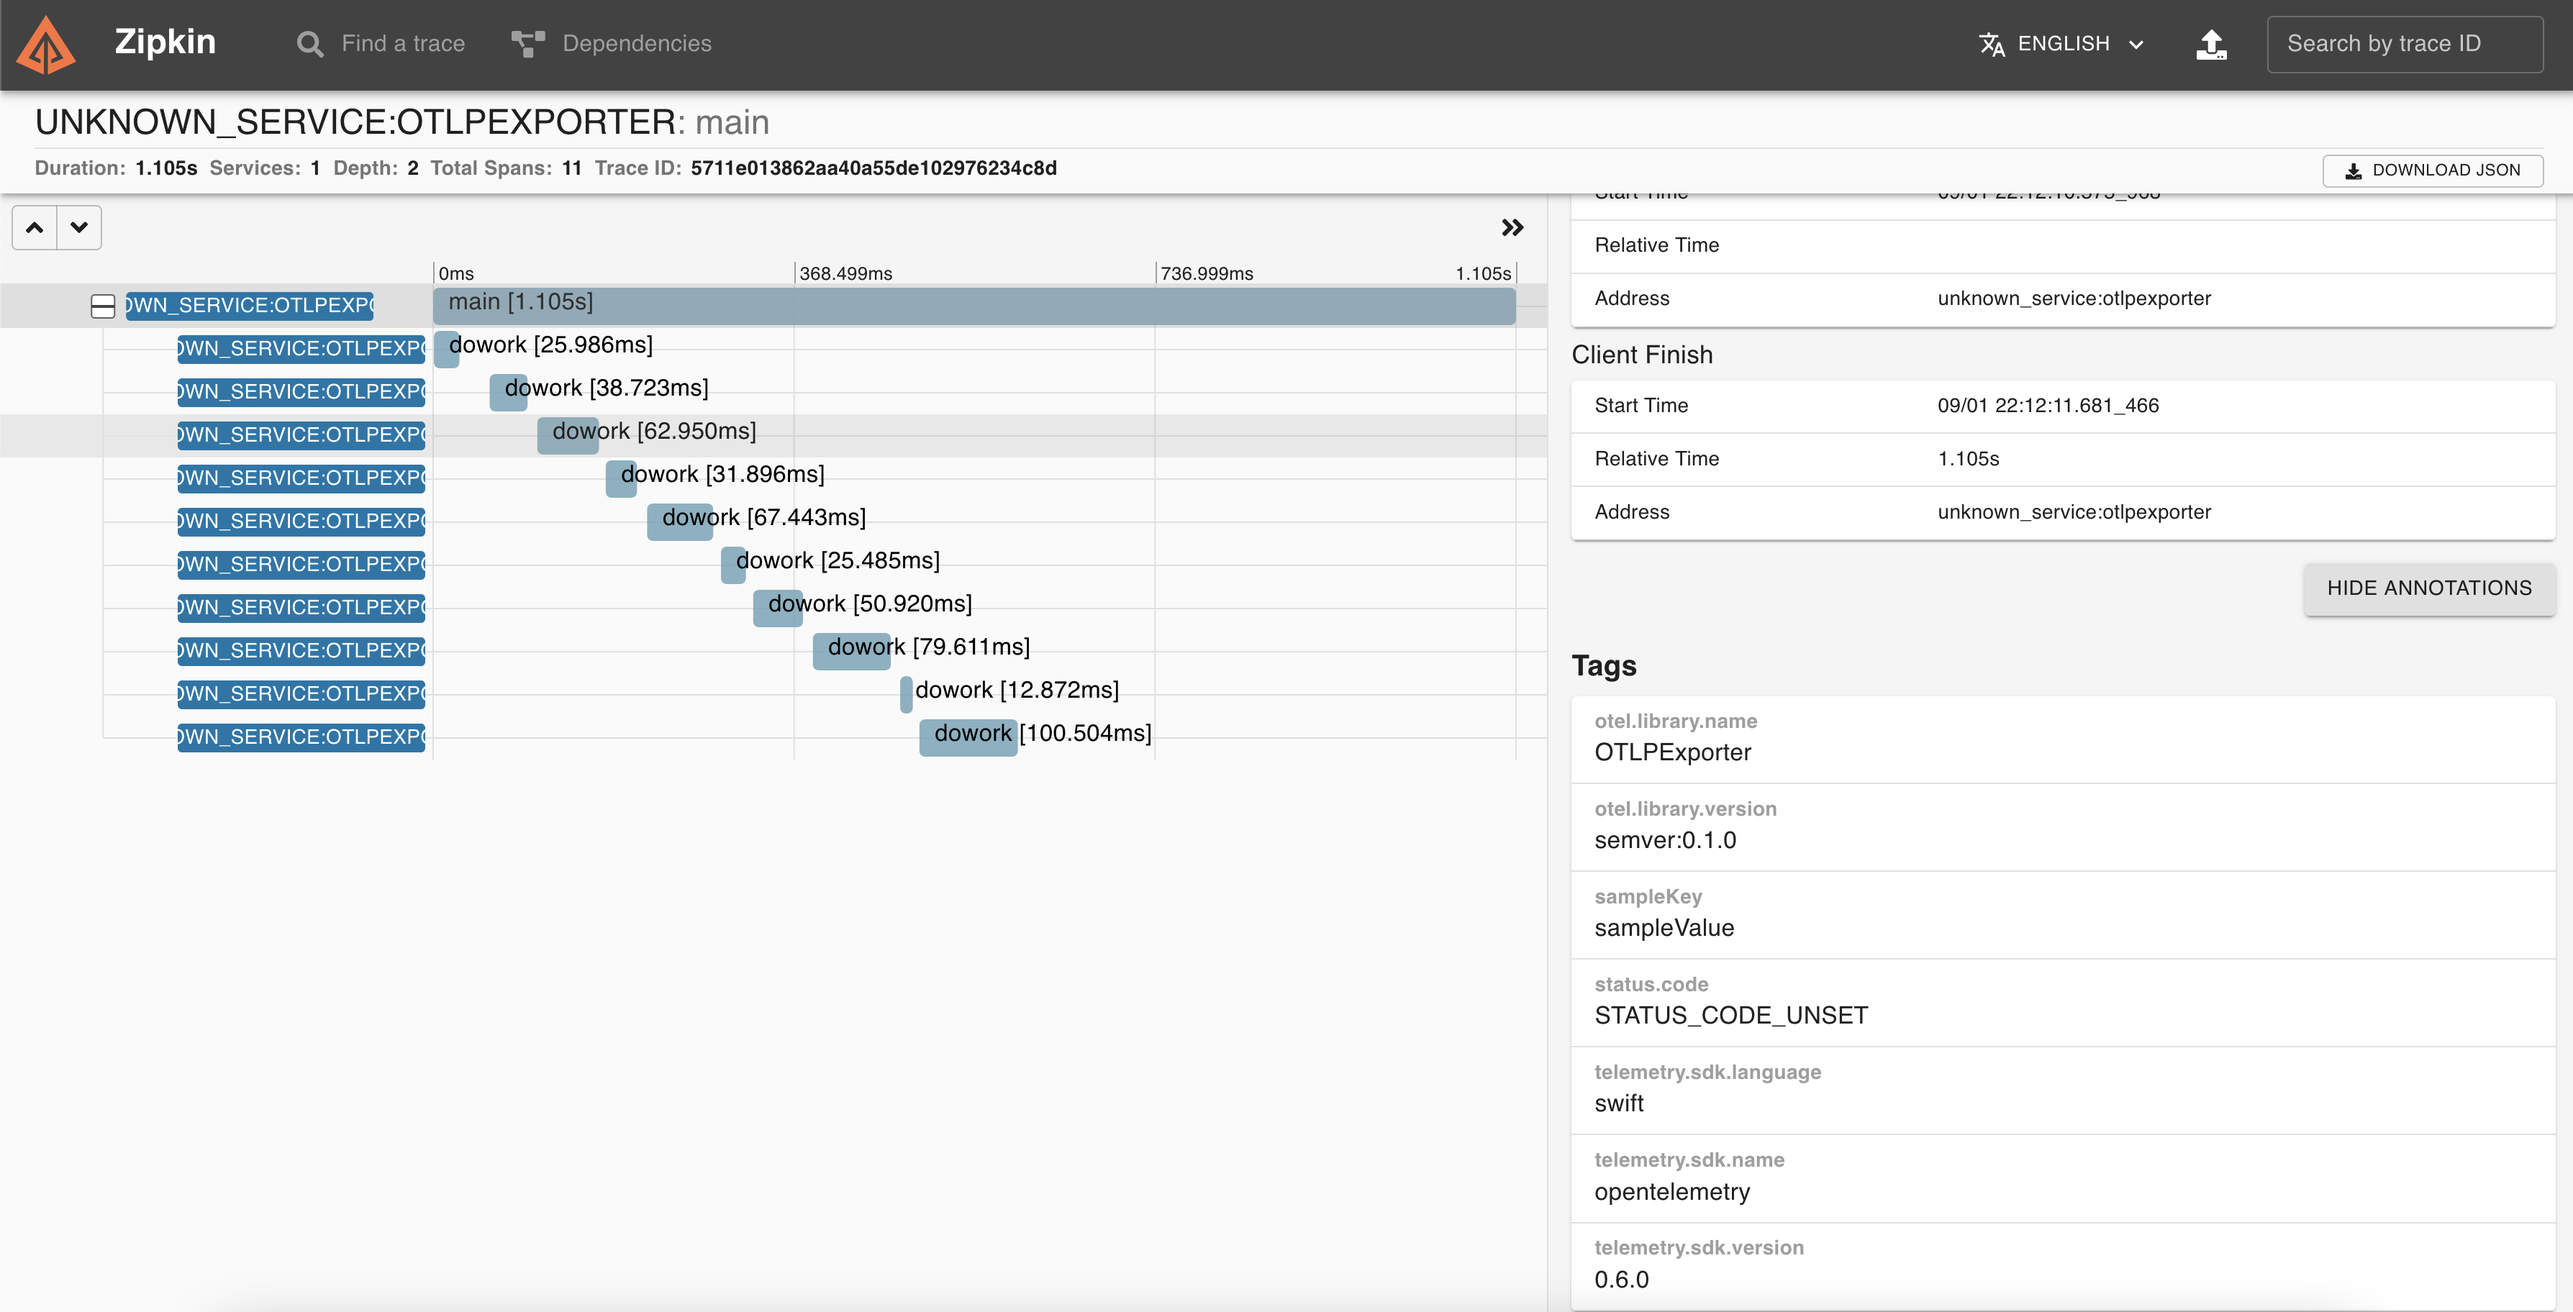
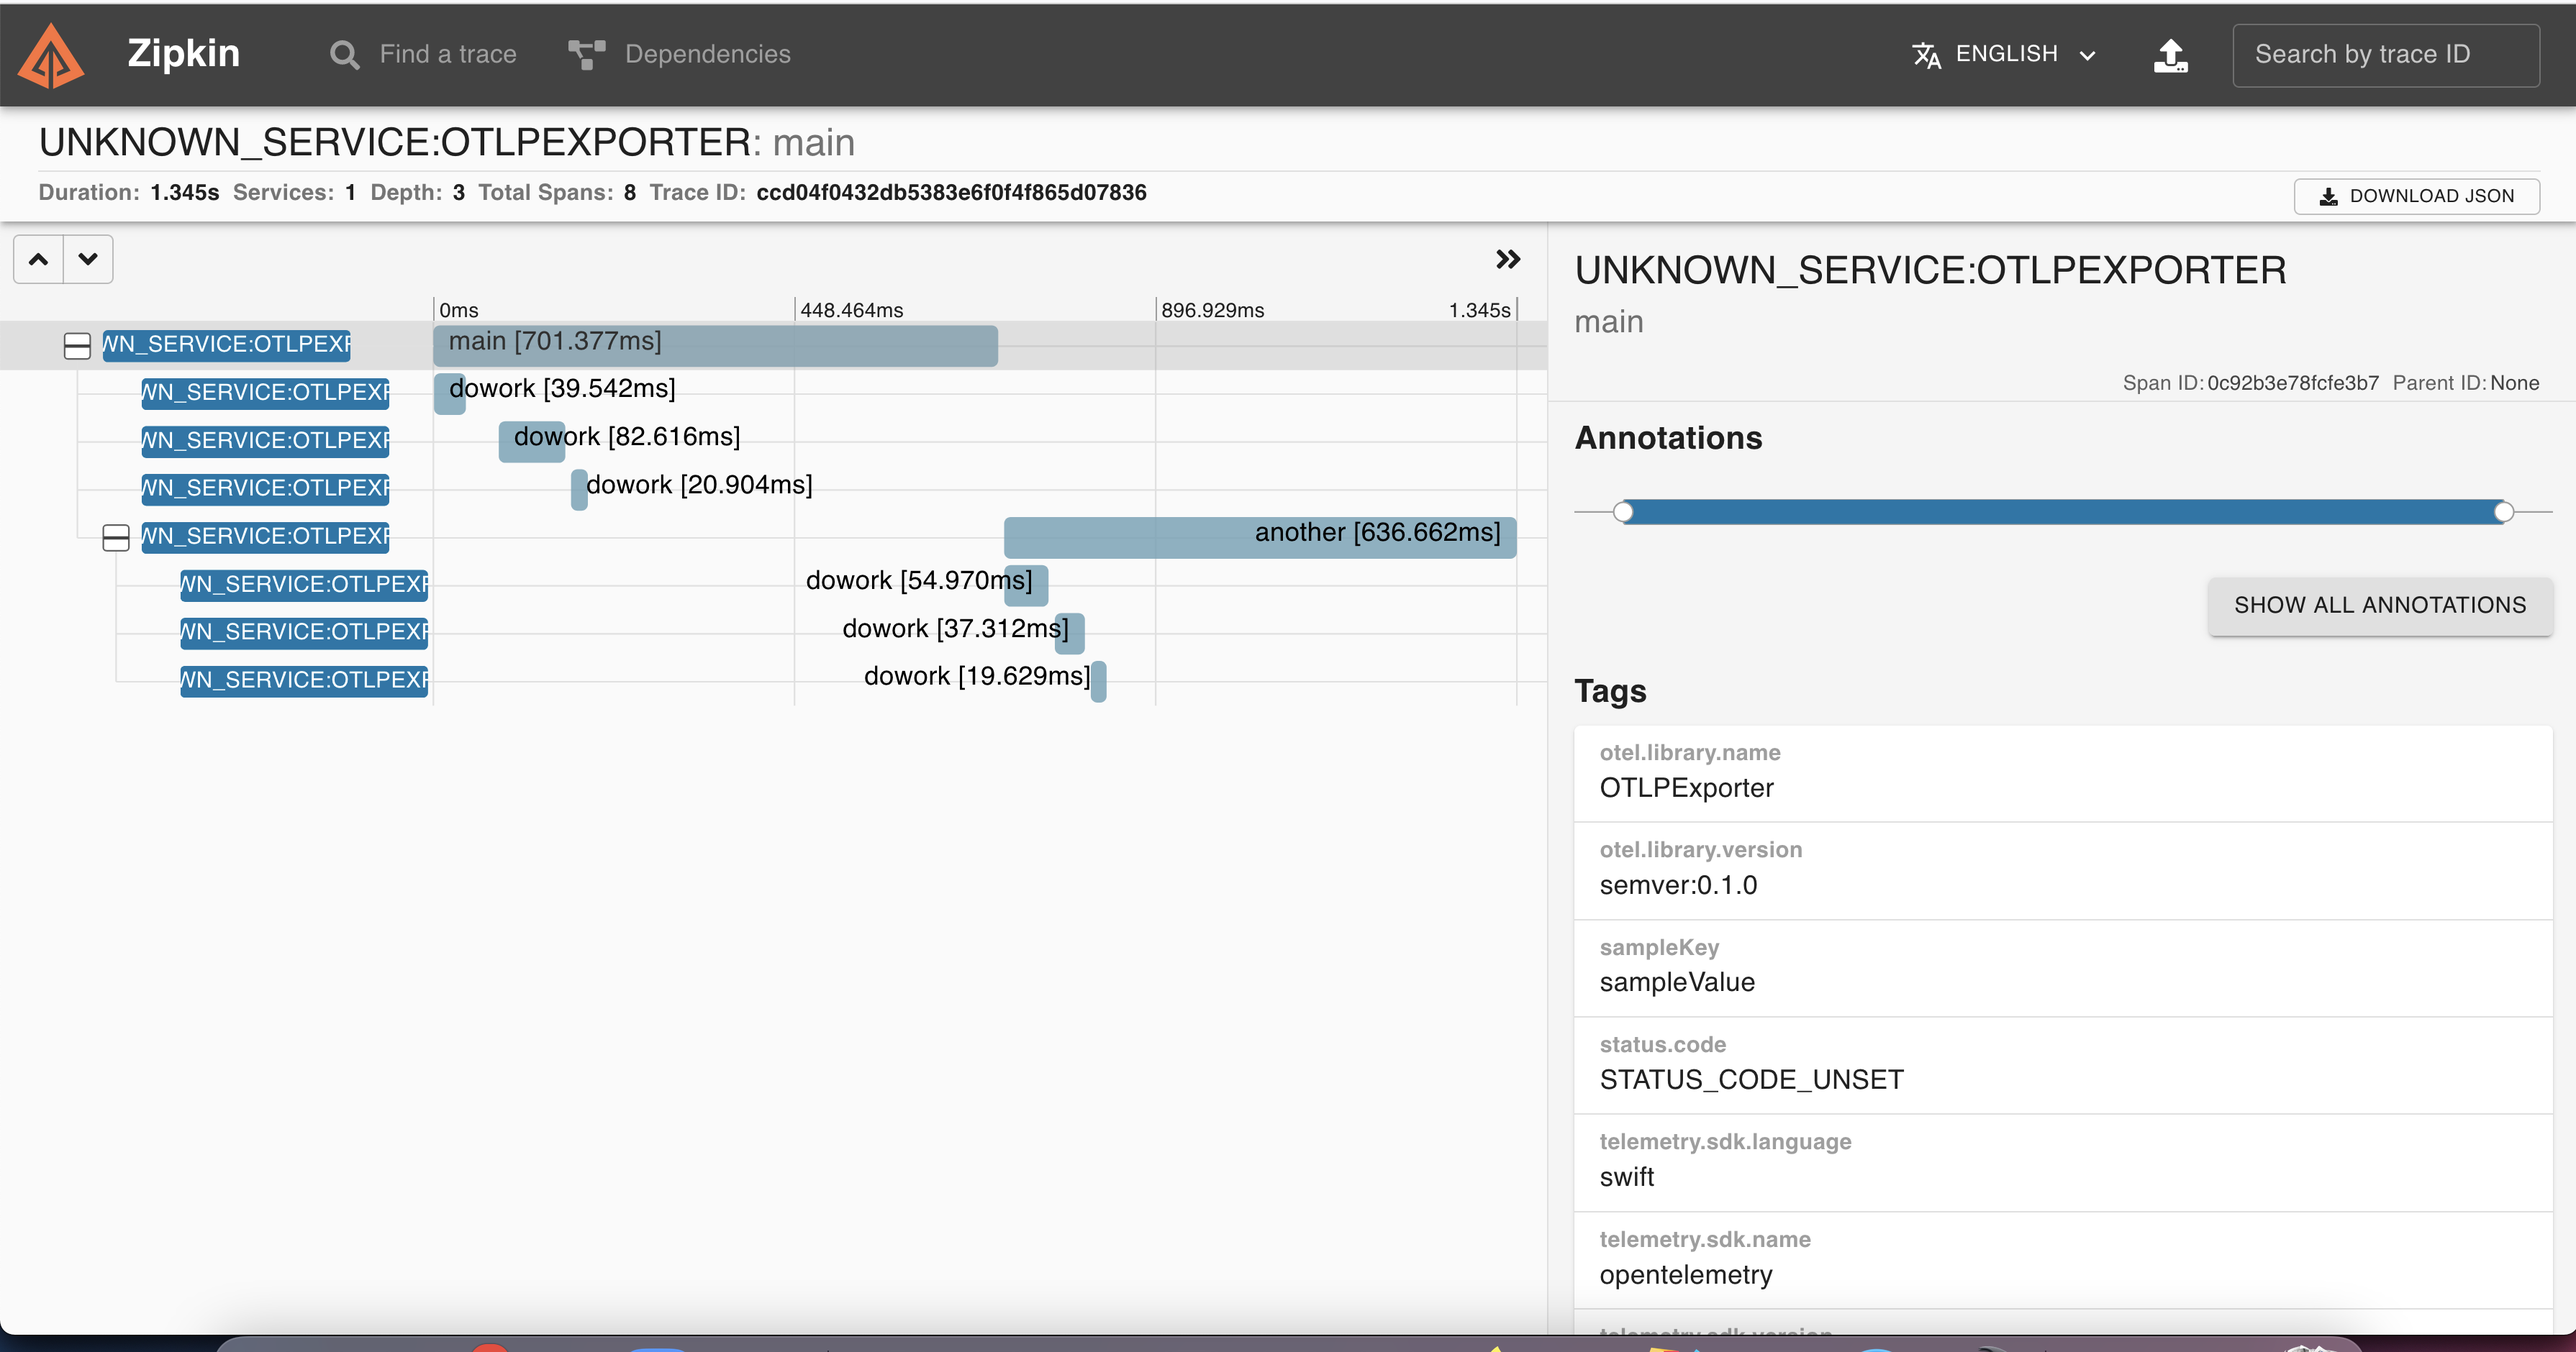
added another span to the example

diff --git a/Examples/OTLP Exporter/main.swift b/Examples/OTLP Exporter/main.swift
@@ -45,13 +45,22 @@ if #available(macOS 10.14, *) {
 }
 
 func createSpan() {
-    let parentSpan = tracer.spanBuilder(spanName: "Main").setSpanKind(spanKind: .client).startSpan()
-    parentSpan.setAttribute(key: sampleKey, value: sampleValue)
-    for _ in 1...10 {
-        doWork(parentSpan: parentSpan)
+    let parentSpan1 = tracer.spanBuilder(spanName: "Main").setSpanKind(spanKind: .client).startSpan()
+    parentSpan1.setAttribute(key: sampleKey, value: sampleValue)
+    for _ in 1...3 {
+        doWork(parentSpan: parentSpan1)
     }
     Thread.sleep(forTimeInterval: 0.5)
-    parentSpan.end()
+    parentSpan1.end()
+    
+    let parentSpan2 = tracer.spanBuilder(spanName: "Another").setSpanKind(spanKind: .client).startSpan()
+    parentSpan2.setAttribute(key: sampleKey, value: sampleValue)
+    // do more Work
+    for _ in 1...3 {
+        doWork(parentSpan: parentSpan2)
+    }
+    Thread.sleep(forTimeInterval: 0.5)
+    parentSpan2.end()
 }
 
 func doWork(parentSpan: Span) {
